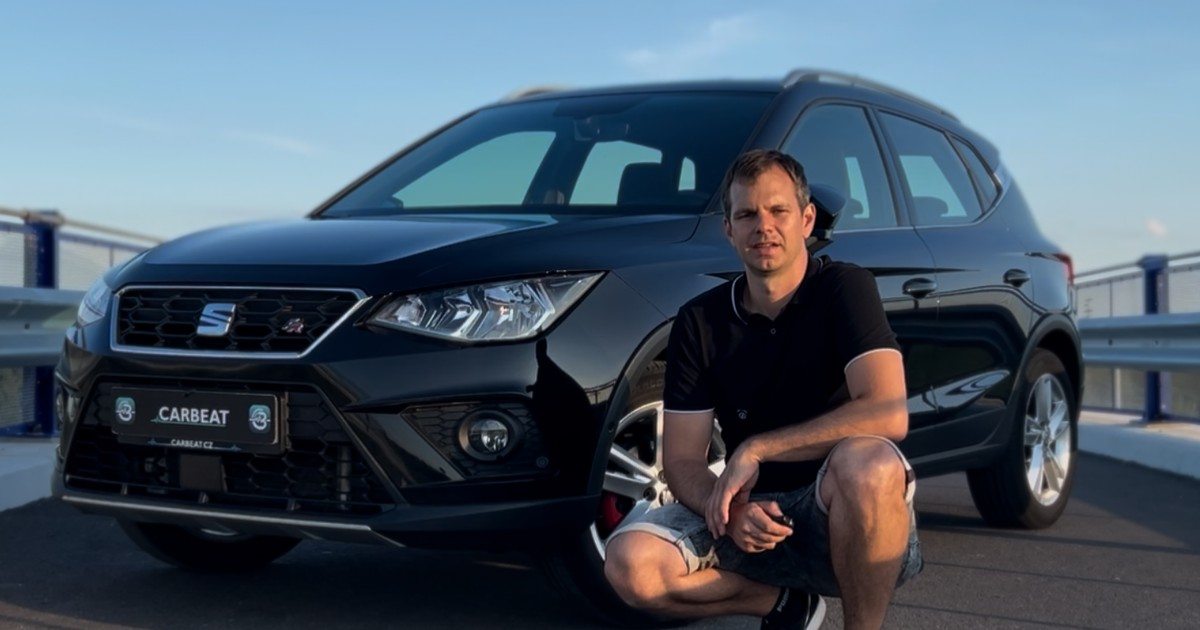
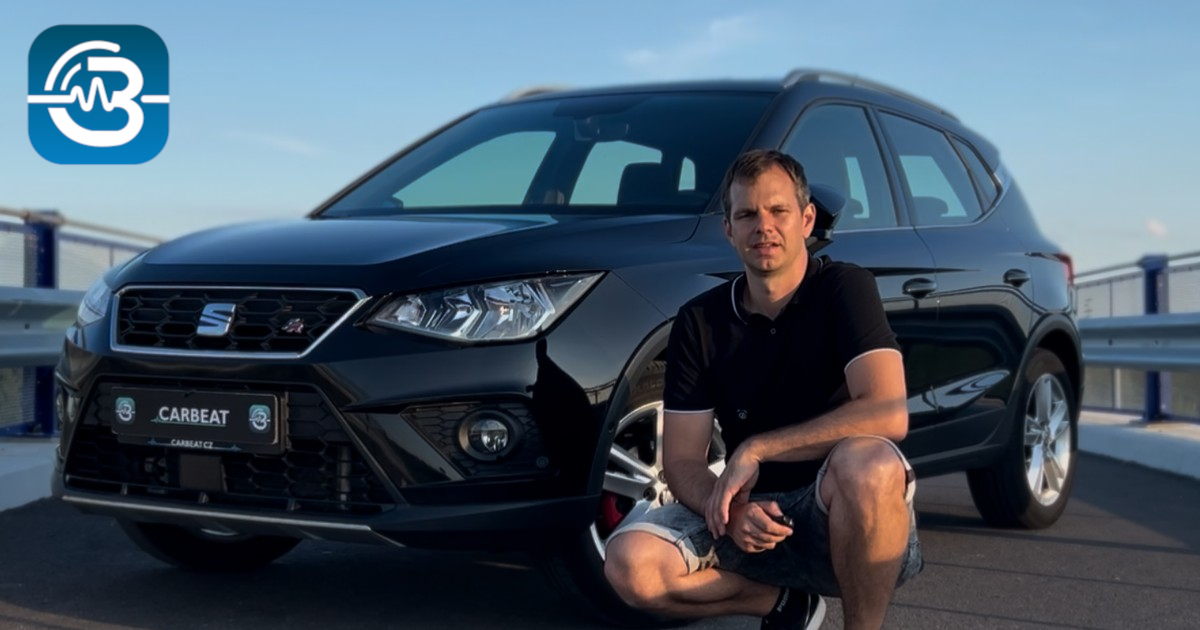
Fix OG image preview for Facebook sharing
Update metadataBase to match Vercel deployment URL and add
CarBeat logo to og-image.jpg for better brand visibility.

Changed region(s): [[0.0, 0.0302, 0.1542, 0.2714]]

diff --git a/src/app/layout.tsx b/src/app/layout.tsx
@@ -13,7 +13,7 @@ export const metadata: Metadata = {
   },
   description:
     "Dovoz prověřených ojetých aut z Německa. Kompletní servis od výběru po předání. Josef Cipra, +420 777 027 809.",
-  metadataBase: new URL("https://carbeat.cz"),
+  metadataBase: new URL("https://carbeat-web.vercel.app"),
   alternates: { canonical: "/" },
   openGraph: {
     type: "website",
